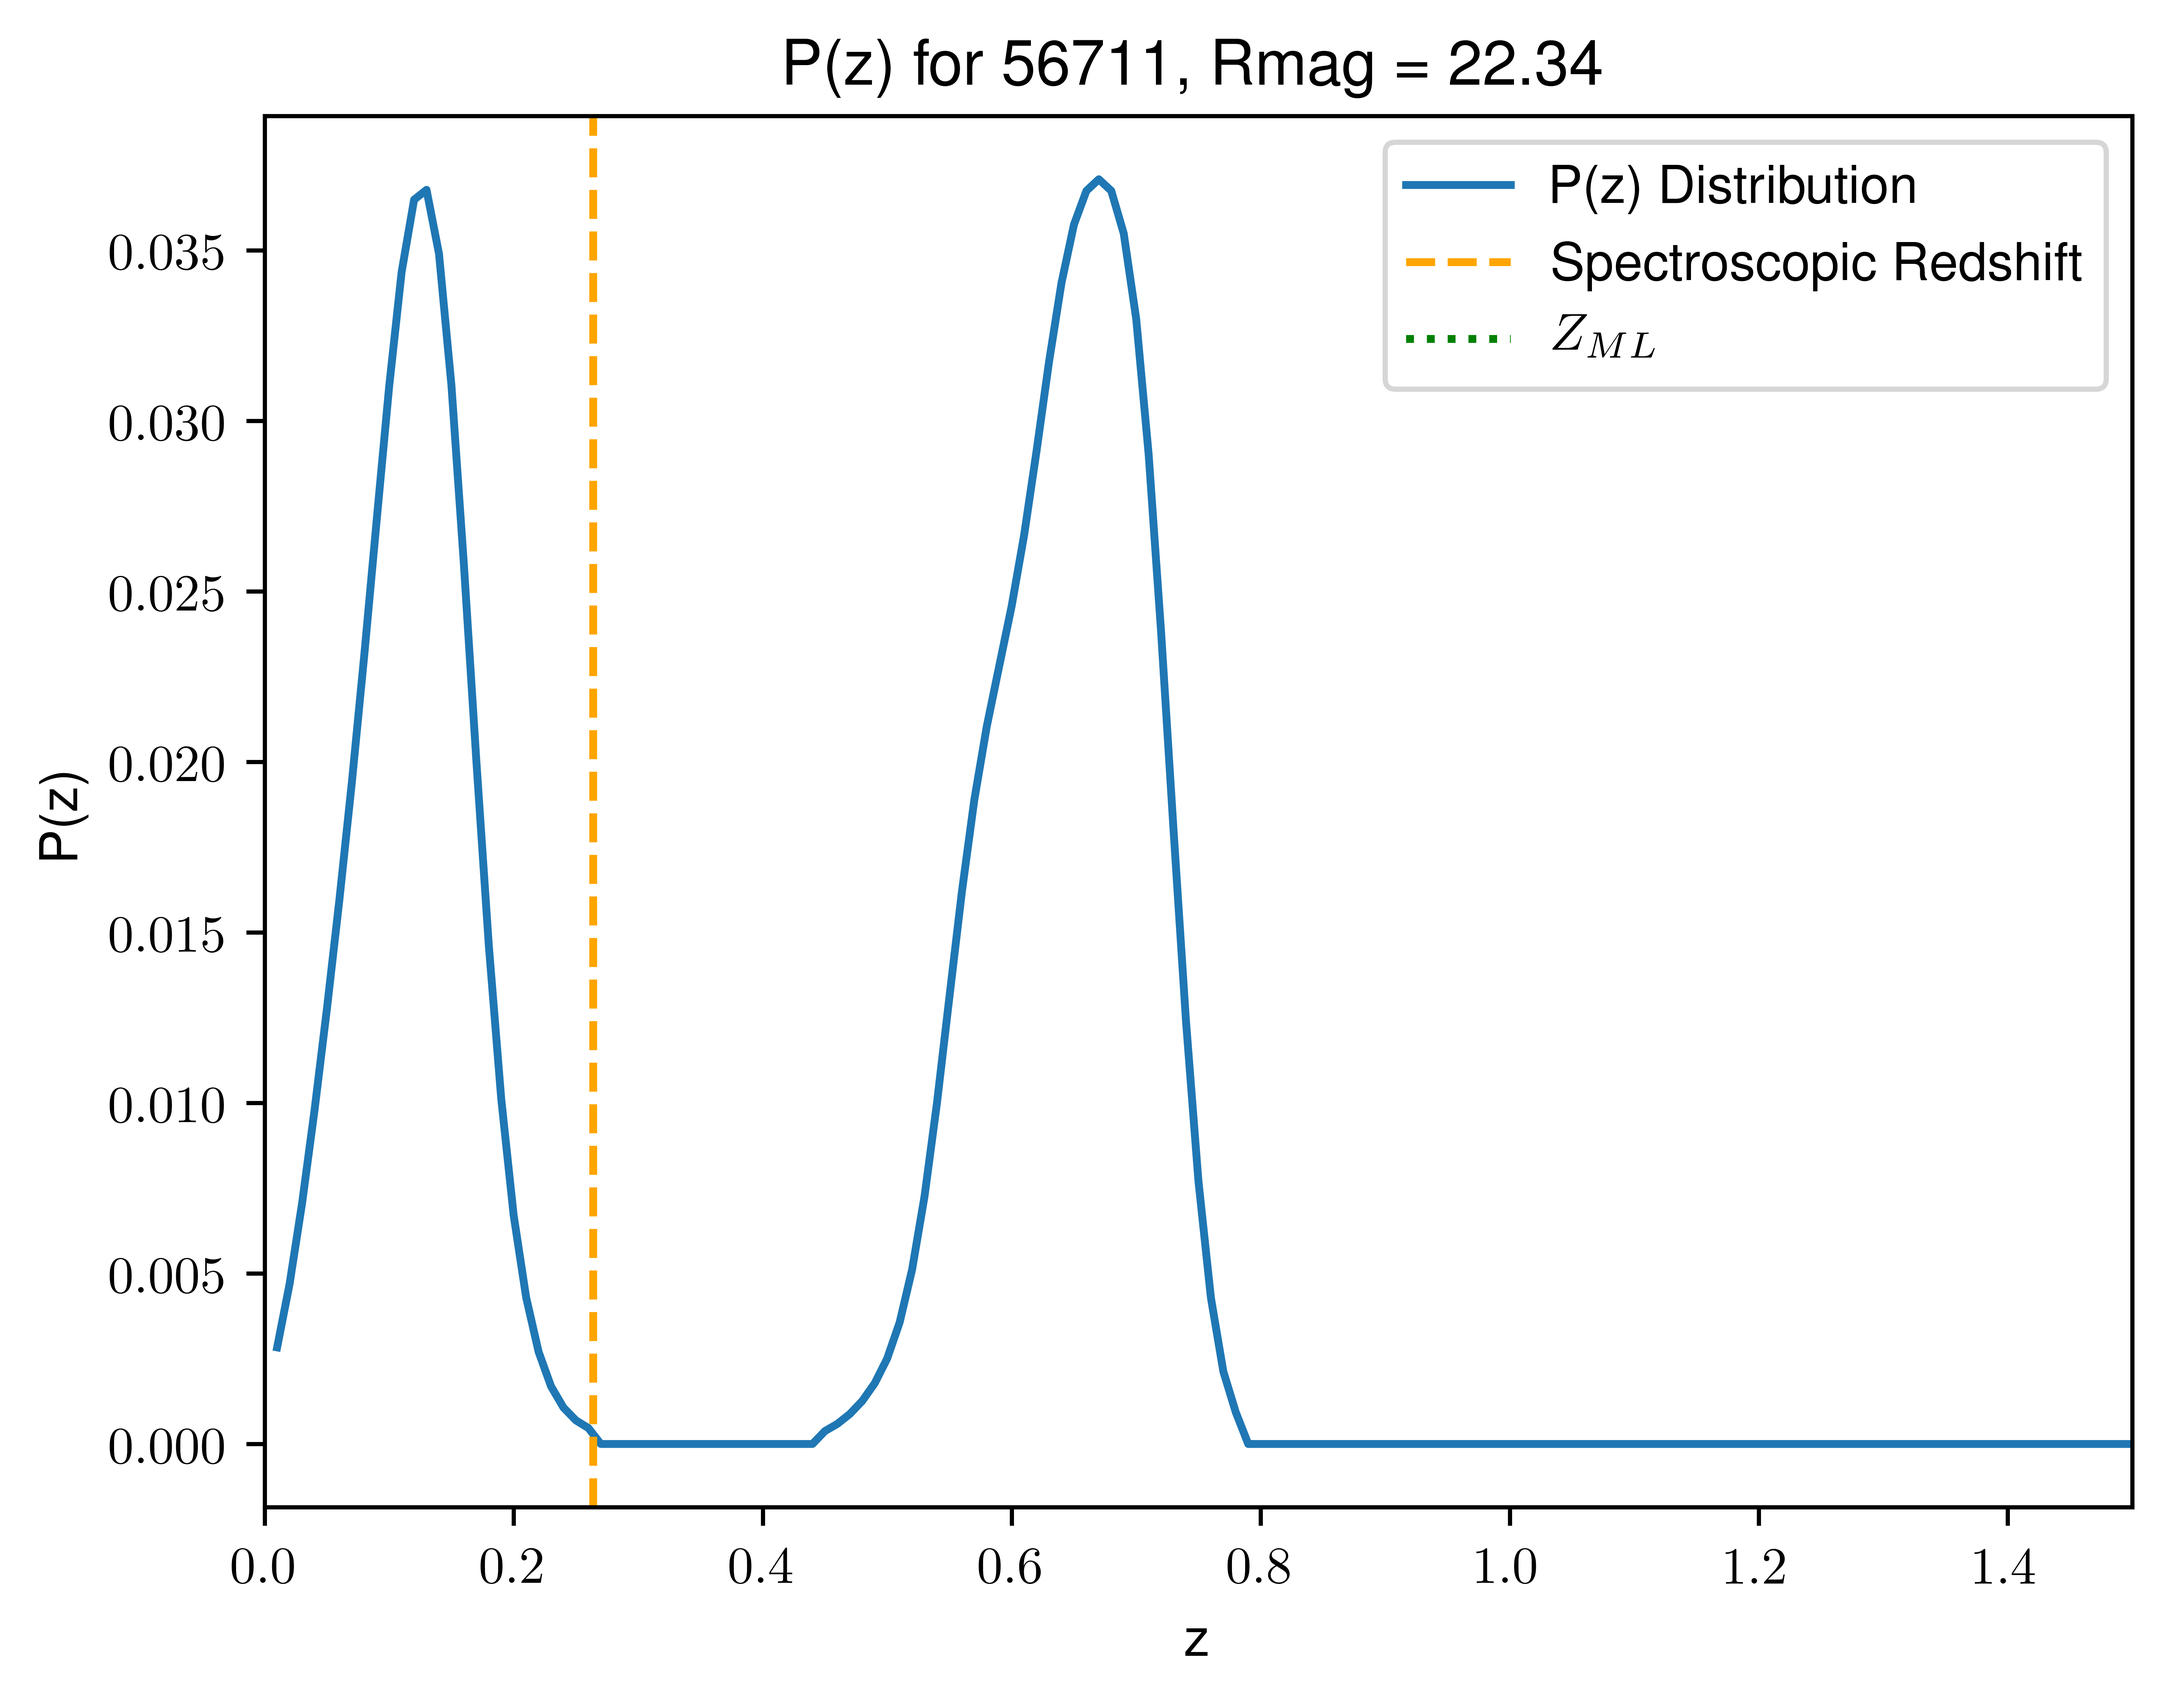
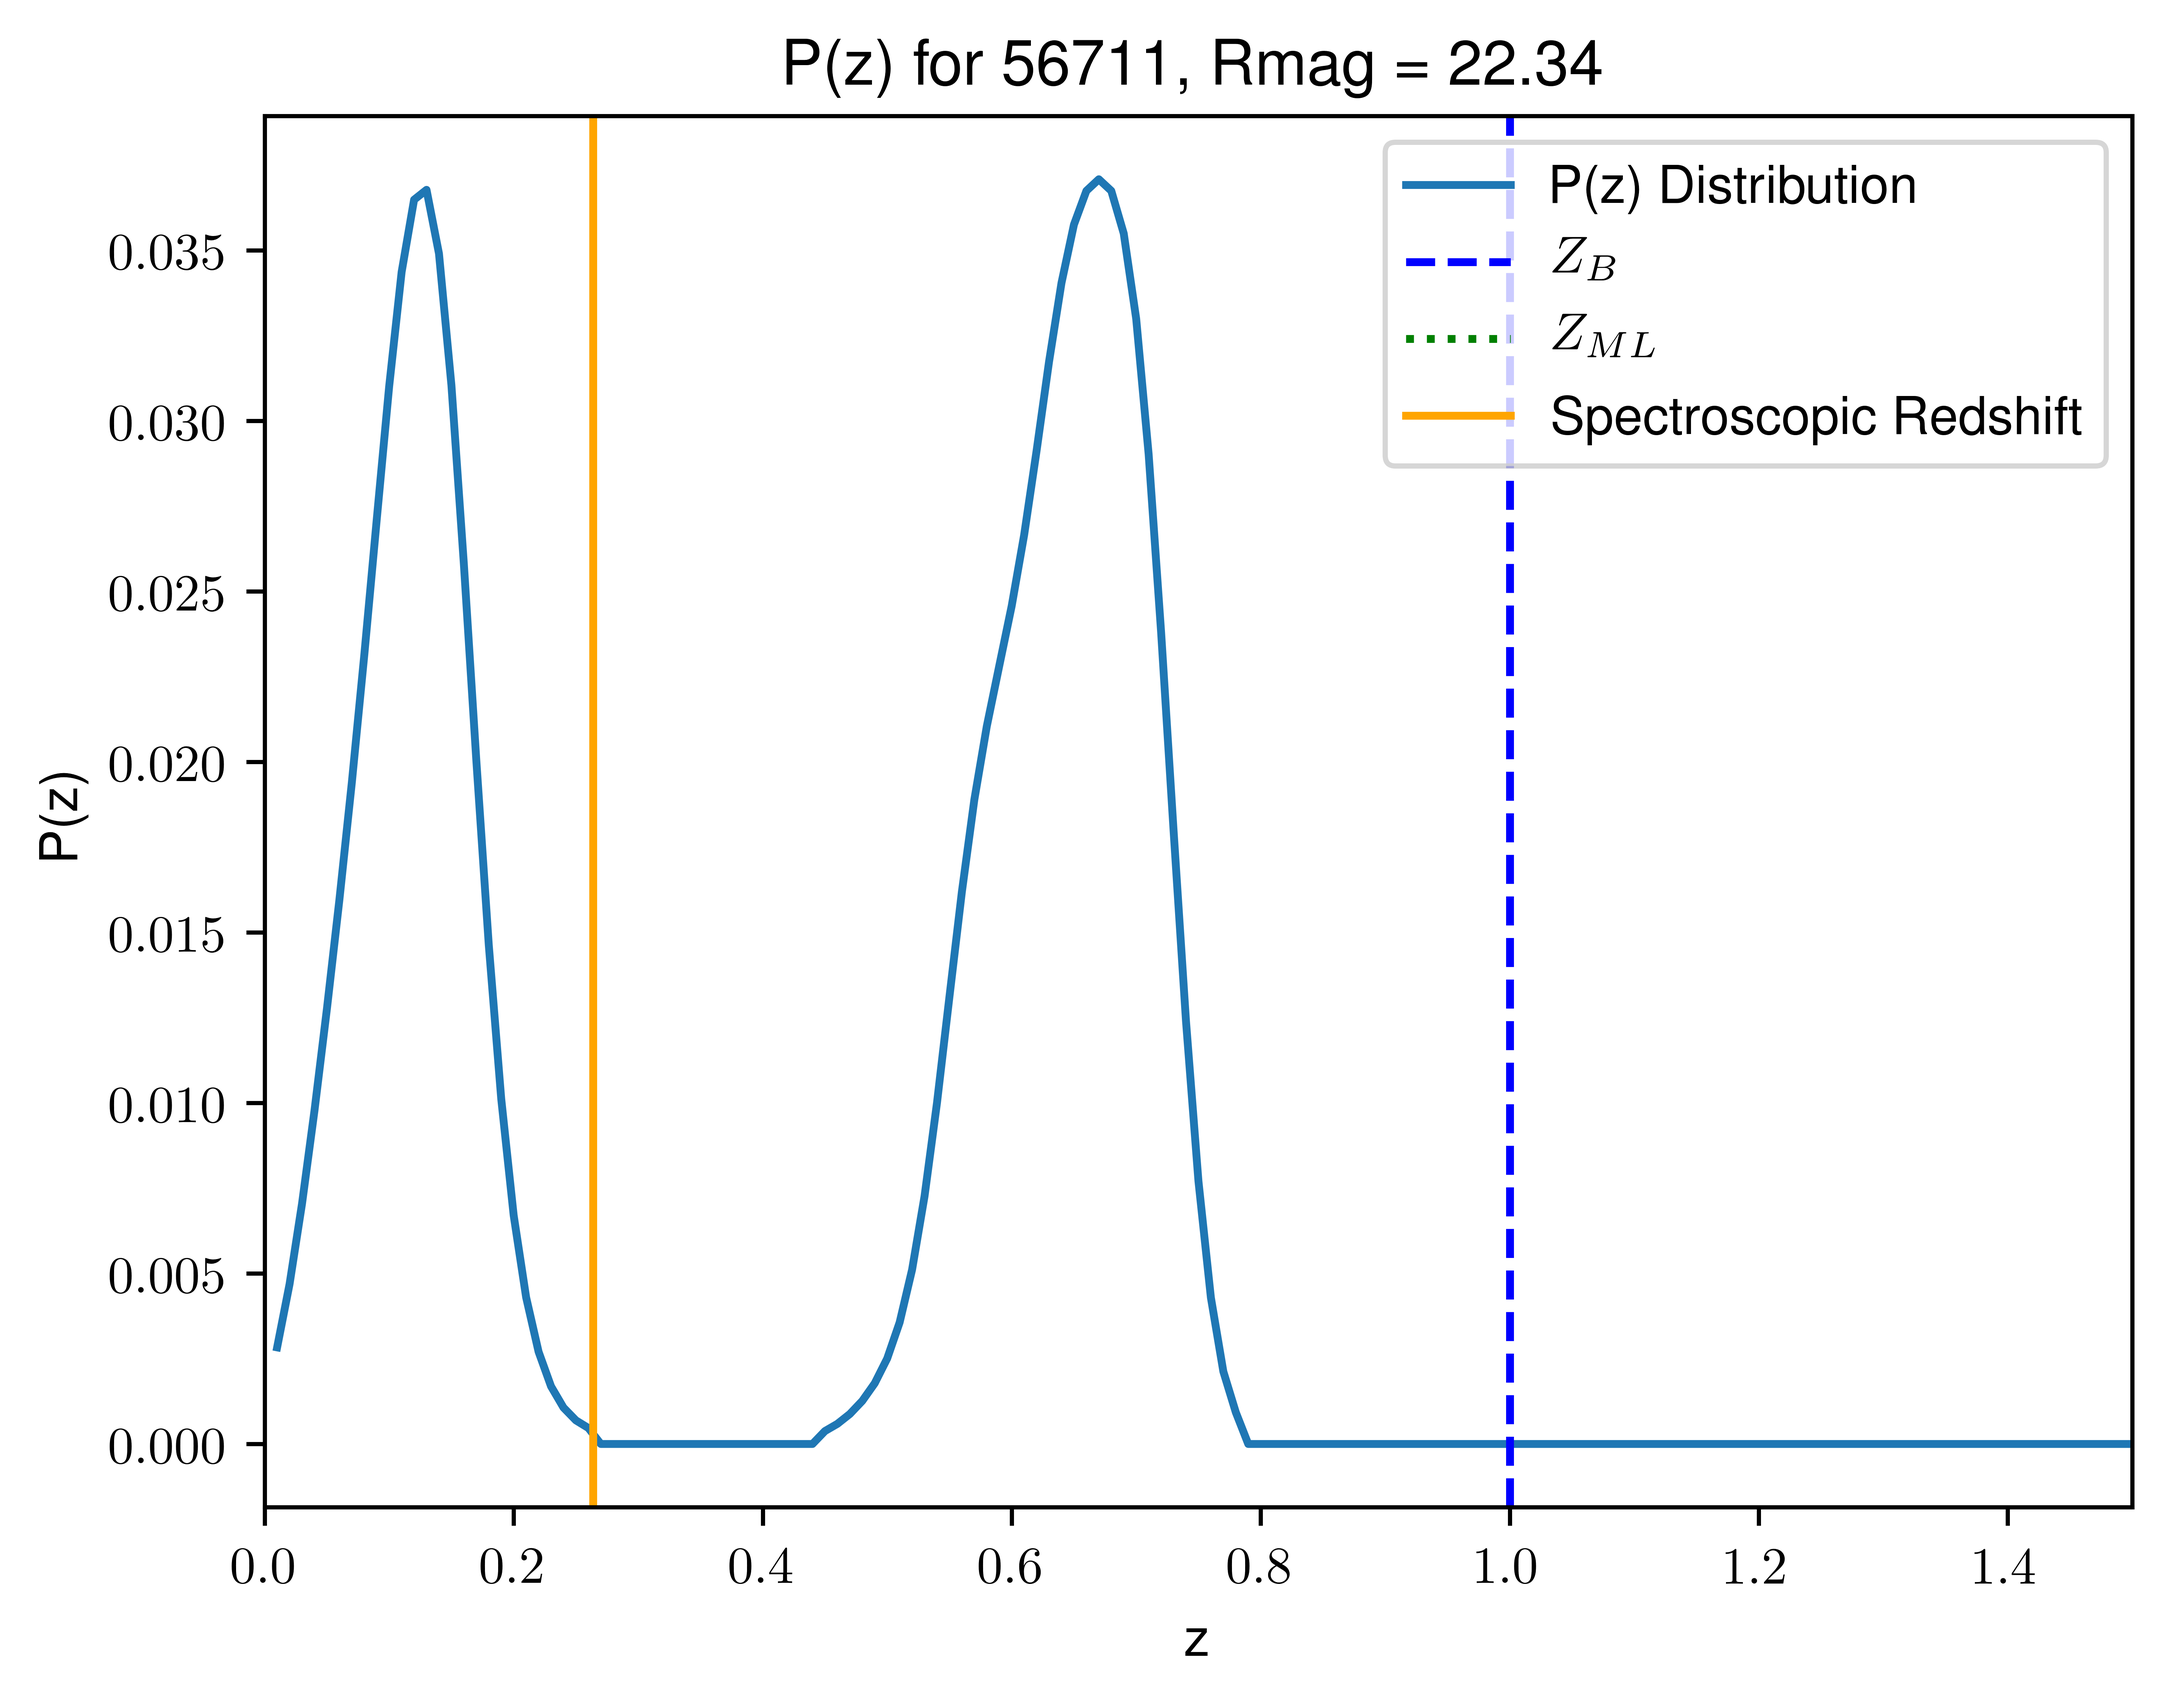
add zoom

Changed region(s): [[0.6243, 0.218, 0.9677, 0.2803], [0.6868, 0.1246, 0.8429, 0.1869], [0.8741, 0.1246, 0.9677, 0.1869]]

diff --git a/scripts/QQplot.py b/scripts/QQplot.py
@@ -32,7 +32,7 @@ if cat2:
     fname_match = 'match5_goodObjects.fits'
 
 # Save Figures?
-save = True
+save = False
 if save:
     if cat1:
         figpwd = '/home/ebiermann/Cosmo-Research/figures/mag_matchCat/all/QQ/'
@@ -89,7 +89,6 @@ for i in range(0,len(data)):
     if np.isin(i,plotNums):
         SeqNr = data[i][2] # SeqNr_1, 3
         Rmag = data[i][650] # MAG_AUTO-SUBARU-COADD-1-W-C-RC, 651
-        z_b = data[i][1] # BPZ_Z_B, 2
         Z_ml = bpzData[SeqNr-1][6] # BPZ_Z_ML, 7
         plt.figure()
         plt.title('P(z) for {}, Rmag = {:.2f}'.format(SeqNr,Rmag))
@@ -98,9 +97,8 @@ for i in range(0,len(data)):
         plt.ylabel('P(z)')
         plt.xlim(0.0,1.5)
         plt.plot(z,pdz,label=r'P(z) Distribution')
-        plt.axvline(x=z_b,color='blue',linestyle='--',label=r'$Z_{B}$')
+        plt.axvline(x=specZ,color='orange',linestyle='--',label=r'Spectroscopic Redshift')
         plt.axvline(x=Z_ml,color='green',linestyle=':',label=r'$Z_{ML}$')
-        plt.axvline(x=specZ,color='orange',label=r'Spectroscopic Redshift') 
         plt.legend()
         if save:
             plt.savefig(figpwd+'pzPlot_{}_{}.png'.format(SeqNr,tag),\
